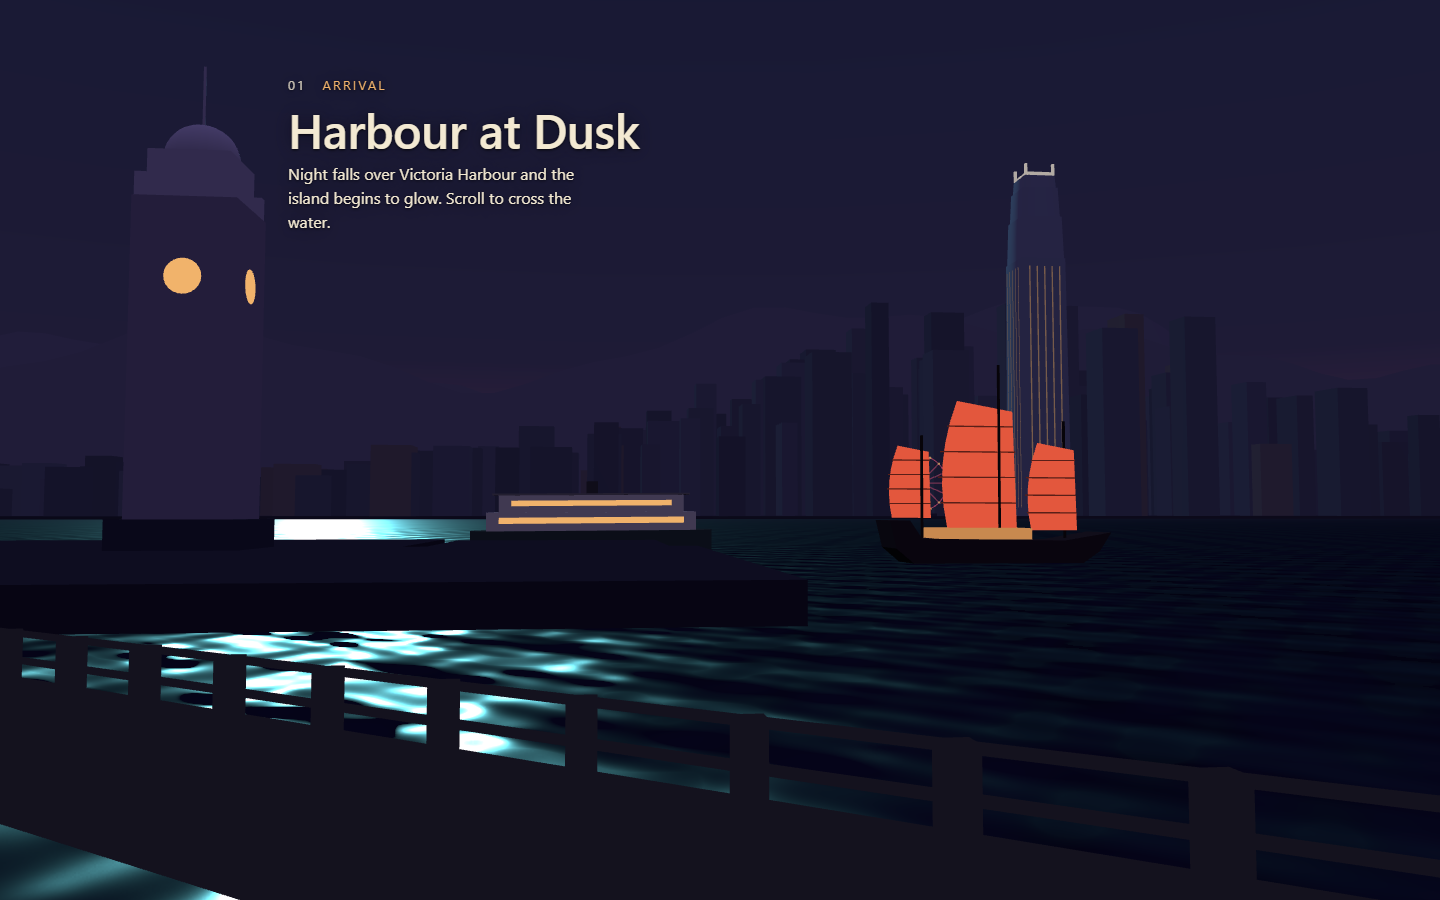
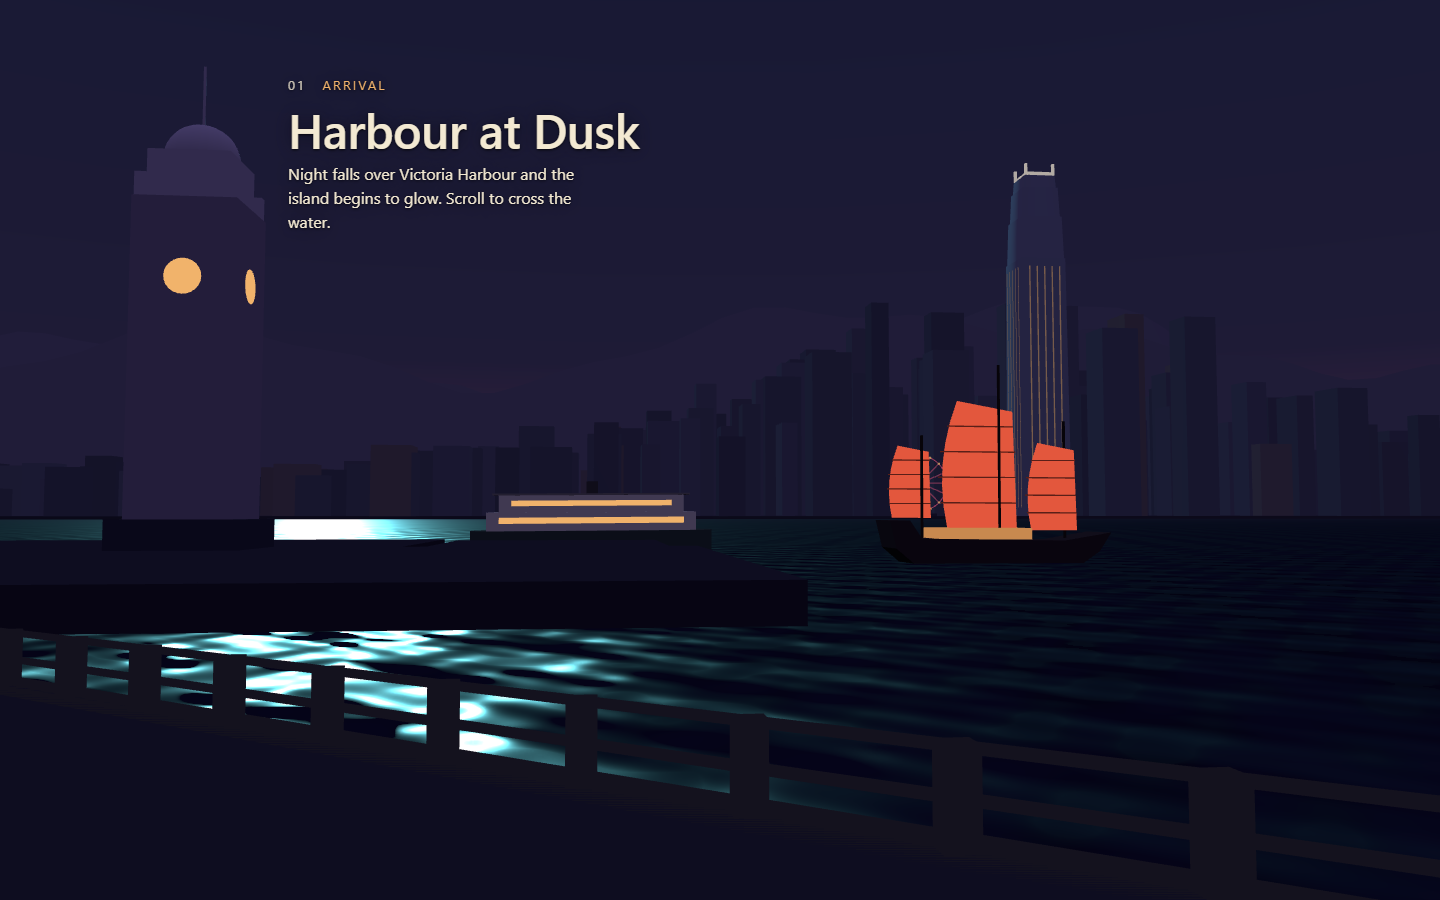
Fill the arrival promenade out to the diagonal railing so no water shows inside it

Changed region(s): [[0.0, 0.9022, 0.1875, 1.0]]

diff --git a/src/scene/createKowloonEdge.js b/src/scene/createKowloonEdge.js
@@ -3,13 +3,16 @@ import {
   CircleGeometry,
   Color,
   CylinderGeometry,
+  ExtrudeGeometry,
   Group,
   InstancedMesh,
   Matrix4,
   Mesh,
   MeshLambertMaterial,
   Quaternion,
+  Shape,
   SphereGeometry,
+  Vector2,
   Vector3,
 } from 'three';
 import { PALETTE, basic, lambert } from './palette.js';
@@ -23,6 +26,16 @@ function block([x0, x1, z0, z1, top], material) {
   const mesh = new Mesh(unitBox, material);
   mesh.position.set((x0 + x1) / 2, top - depth, (z0 + z1) / 2);
   mesh.scale.set(x1 - x0, depth, z1 - z0);
+  return mesh;
+}
+
+function deck({ points, top }, material) {
+  const depth = 6;
+  // Shape y = −z so that rotating the extrusion upright maps it back onto world z.
+  const shape = new Shape(points.map(([x, z]) => new Vector2(x, -z)));
+  const geometry = new ExtrudeGeometry(shape, { depth, bevelEnabled: false }).rotateX(-Math.PI / 2);
+  const mesh = new Mesh(geometry, material);
+  mesh.position.y = top - depth;
   return mesh;
 }
 
@@ -95,6 +108,7 @@ export function createKowloonEdge() {
   const ground = lambert(0x24222f);
 
   for (const b of WORLD.kowloon.blocks) group.add(block(b, ground));
+  for (const d of WORLD.kowloon.decks) group.add(deck(d, ground));
   group.add(createKowloonSkyline());
 
   const clockTower = createClockTower();

diff --git a/src/ui/debug.js b/src/ui/debug.js
@@ -235,6 +235,15 @@ export function createDebug(ctx) {
     for (const [x0, x1, z0, z1, t] of WORLD.kowloon.blocks) {
       if (x >= x0 && x <= x1 && z >= z0 && z <= z1) top = Math.max(top, t);
     }
+    for (const { points, top: t } of WORLD.kowloon.decks) {
+      let inside = false;
+      for (let i = 0, j = points.length - 1; i < points.length; j = i++) {
+        const [xi, zi] = points[i];
+        const [xj, zj] = points[j];
+        if (zi > z !== zj > z && x < ((xj - xi) * (z - zi)) / (zj - zi) + xi) inside = !inside;
+      }
+      if (inside) top = Math.max(top, t);
+    }
     const [a, b, c, d, t] = WORLD.island.slab;
     if (x >= a && x <= b && z >= c && z <= d) top = Math.max(top, t);
     return top;

diff --git a/src/data/world.js b/src/data/world.js
@@ -13,6 +13,11 @@ export const WORLD = {
       [-40, -10, -75, -40, 2], // Star Ferry pier
       [-40, -8, -25, 40, 2.5], // quay east of the Clock Tower
     ],
+    // Polygon decks [[x, z], ...] at height `top`, for edges that are not axis-aligned.
+    decks: [
+      // Arrival promenade out to the diagonal railing A, so no water shows inside it.
+      { points: [[-5.6, 99], [-5.6, 97.4], [-48, 61.7], [-60, 61.7], [-60, 99]], top: 2.5 },
+    ],
     skyline: { x: [-480, -80], z: [80, 460], count: 40, height: [14, 60], seed: 7 },
   },
 
